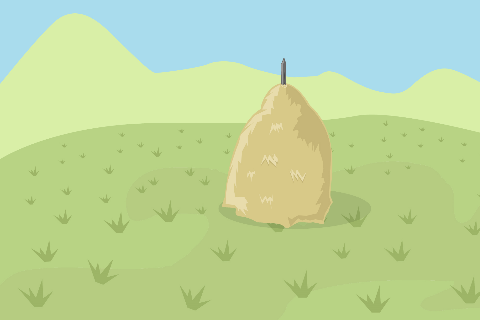
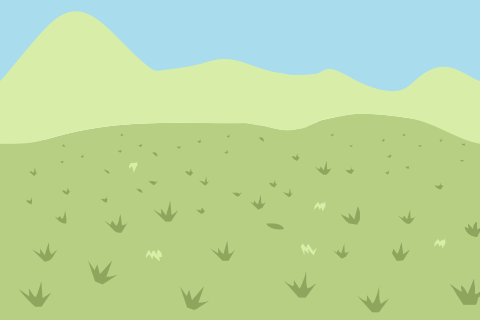
localstorage

diff --git a/end.html b/end.html
@@ -10,14 +10,16 @@
     <link href='http://fonts.googleapis.com/css?family=Press+Start+2P' rel='stylesheet' type='text/css'>
     <script> 
         function loadData() {
-            var _account = localStorage.getItem('Puntos');
+            var punto = localStorage.getItem('PuntosActuales');
+            var maximo = localStorage.getItem('PuntosMaximo');
             //Checks whether the stored data exists
-            if (_account) {
+
                 //Do what you need with the object
-                var score = _account;
-                document.getElementById('lblPuntaje').innerHTML = score;
+                var score = punto;
+                document.getElementById('lblPuntajeMaximo').innerHTML = maximo;
+                document.getElementById('lblPuntaje').innerHTML = punto;
                 //If you want to delete the object
-            }
+            
         }
     </script>
     <style type="text/css">
@@ -53,9 +55,10 @@
     <title>MoleTopo</title>
 </head>    
 <body>
-    <img src="end.png" id="end" onload="loadData()" onClick="goGame()"/>
+    <img src="end.png" id="end" onload="loadData()"  onClick="goGame()"/>
     <div>
-        <p>Puntaje : </p> <p id="lblPuntaje"></p>
+        <p>Maximo Puntaje : </p> <p id="lblPuntajeMaximo"></p>
+        <p>Puntaje Actual : </p> <p id="lblPuntaje"></p>
     </div>    
 </body>
 

diff --git a/index.html b/index.html
@@ -11,7 +11,7 @@
     <script src='js/main.js'></script>
     <style type="text/css">
         body {margin: 0;
-        background: url(farm.png);
+        background: url('farm-2.png');
         background-repeat: repeat-x;
         background-attachment: fixed}
     </style>
